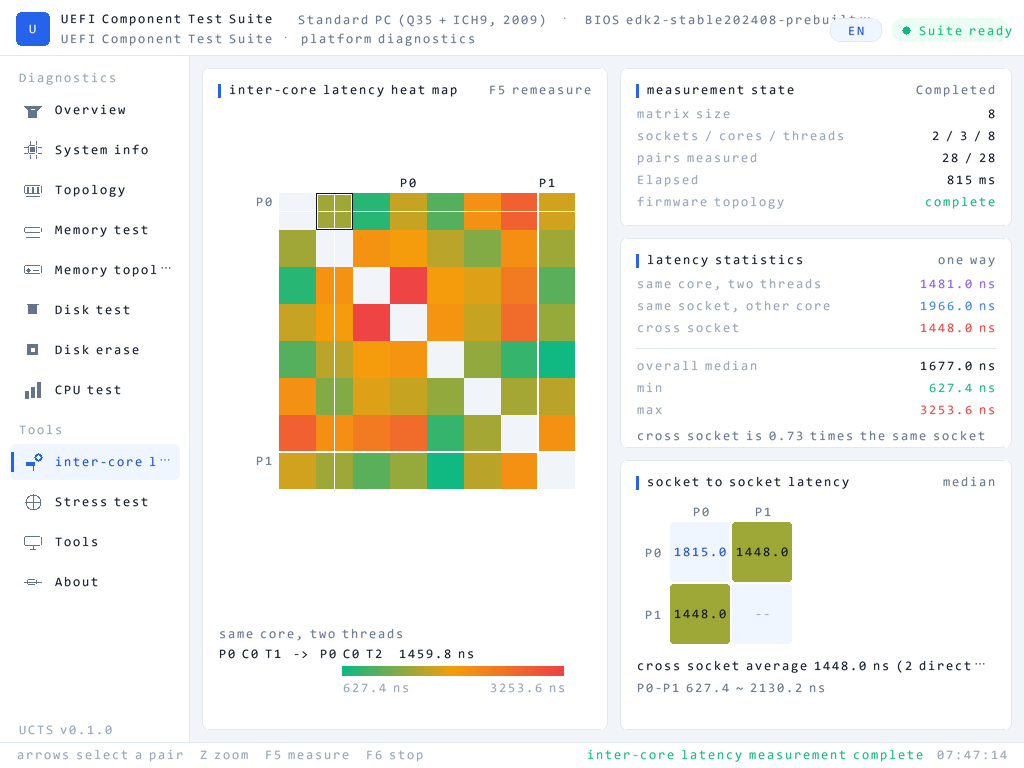
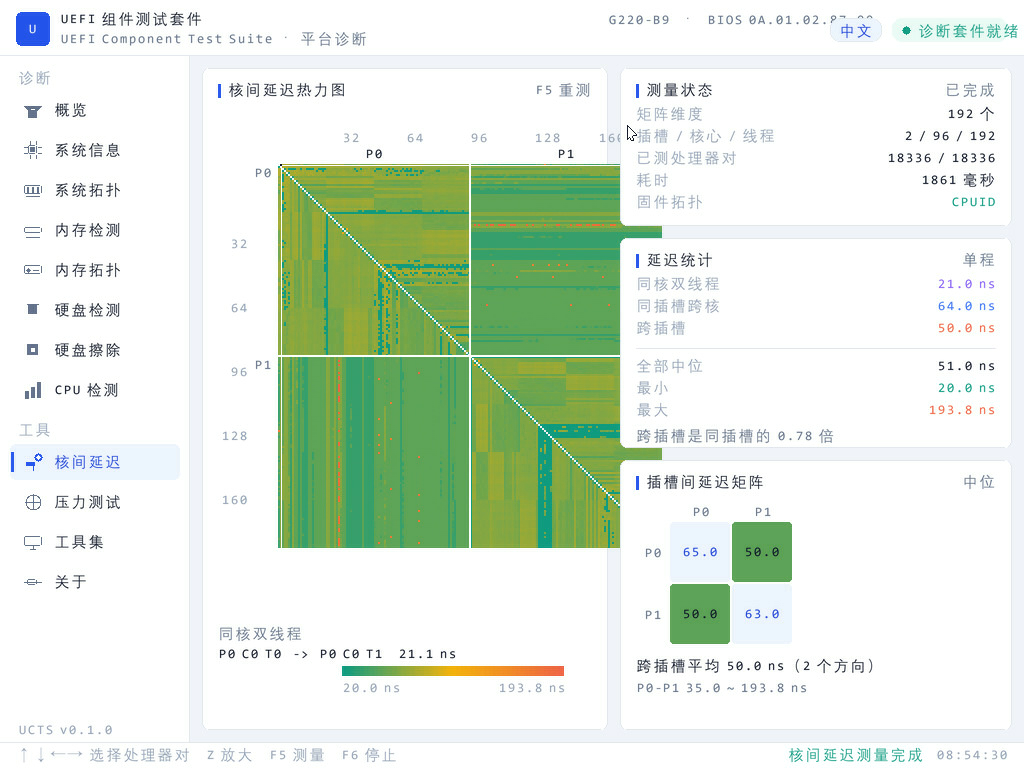
docs: 核间延迟截图为双路真机实测；修 CPUID 退回路径的线程/核心拆分
- 退回 leaf 4 时按 EBX[23:16]（每包逻辑处理器数）/ coresPerPkg 求每核线程数，
  再取位移，避免把整包的逻辑处理器当成单个核心的线程
- 文档截图换成 Lenovo G220-B9（192 线程）实测热力图

diff --git a/src/latency.c b/src/latency.c
@@ -432,19 +432,25 @@ static VOID LatTopoDetect(UINT32 *smtShift, UINT32 *coreShift)
     }
   }
   if (core == 0 && maxLeaf >= 4) {
-    UINT32 cores, threads = 1;
+    UINT32 cores, logical = 1, perCore;
     LatCpuid(4, 0, r);
     cores = ((r[0] >> 26) & 0x3F) + 1;
     LatCpuid(1, 0, r);
-    threads = (r[1] >> 16) & 0xFF;
-    if (threads == 0) {
-      threads = 1;
+    /* EBX[23:16] is every addressable logical processor in a package, so it
+       covers both the cores and the threads of one */
+    logical = (r[1] >> 16) & 0xFF;
+    if (logical == 0) {
+      logical = cores;
+    }
+    perCore = logical / (cores ? cores : 1);
+    if (perCore < 1) {
+      perCore = 1;
     }
     /* classic layout: thread bits below core bits, socket bits above */
-    while ((1u << smt) < threads) {
+    while ((1u << smt) < perCore) {
       smt++;
     }
-    while ((1u << core) < cores * threads) {
+    while ((1u << core) < logical) {
       core++;
     }
   }
